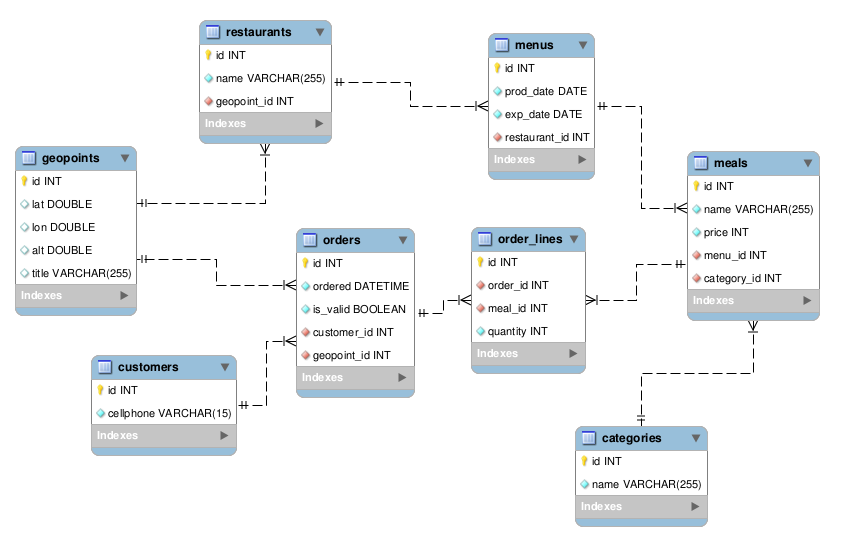
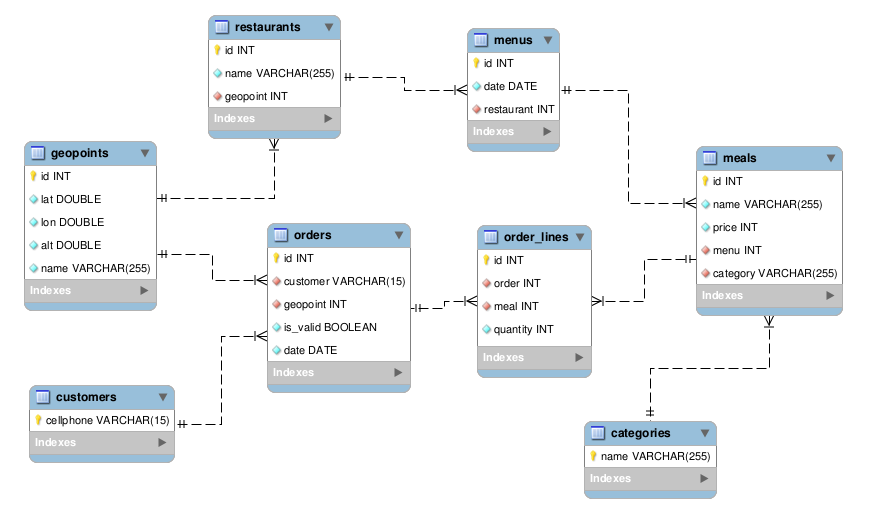
Changing the models diagram

diff --git a/src/api/models.py b/src/api/models.py
@@ -92,6 +92,22 @@ class Meal(models.Model):
         return self.name + " " + str(self.price)
 
 
+class Order(models.Model):
+
+    """ This class represents an order.
+        An order is just a set of a customer who ordered, a location to ship the order, 
+        is the order validated or not and a date of the order
+    """
+
+    customer = models.ForeignKey(Customer, on_delete=models.CASCADE)
+    geopoint = models.ForeignKey(GeoPoint, on_delete=models.CASCADE)
+    is_valid = models.BooleanField(default=False)
+    date = models.DateField(auto_now_add=True)
+
+    def __str__(self):
+        return self.customer.cellphone + " placed an order in " + str(self.date)
+
+
 class OrderLine(models.Model):
 
     """ This class represents a line of an order.
@@ -103,25 +119,9 @@ class OrderLine(models.Model):
         So an order line is just a set of an order, a meal and the quantity the customer ordered of that meal
     """
 
+    order = models.ForeignKey(Order, on_delete=models.CASCADE)
     meal = models.ForeignKey(Meal, on_delete=models.CASCADE)
     quantity = models.PositiveIntegerField()
 
     def __str__(self):
         return str(self.quantity) + " orders of " + self.meal.name
-
-
-class Order(models.Model):
-
-    """ This class represents an order.
-        An order is just a set of a customer who ordered, a location to ship the order, 
-        is the order validated or not and a date of the order
-    """
-
-    customer = models.ForeignKey(Customer, on_delete=models.CASCADE)
-    orderline = models.ManyToManyField(OrderLine)
-    geopoint = models.ForeignKey(GeoPoint, on_delete=models.CASCADE)
-    is_valid = models.BooleanField(default=False)
-    date = models.DateField(auto_now_add=True)
-
-    def __str__(self):
-        return self.customer.cellphone + " placed an order in " + str(self.date)

diff --git a/src/api/serializers.py b/src/api/serializers.py
@@ -65,7 +65,7 @@ class OrderLineSerializer(serializers.ModelSerializer):
 class OrderSerializer(serializers.ModelSerializer):
     geopoint = GeoPointSerializer()
     customer = CustomerSerializer()
-    orderline = OrderLineSerializer(many=True)
+    #orderline = OrderLineSerializer(many=True)
     class Meta:
         model = Order
         fields = '__all__'
